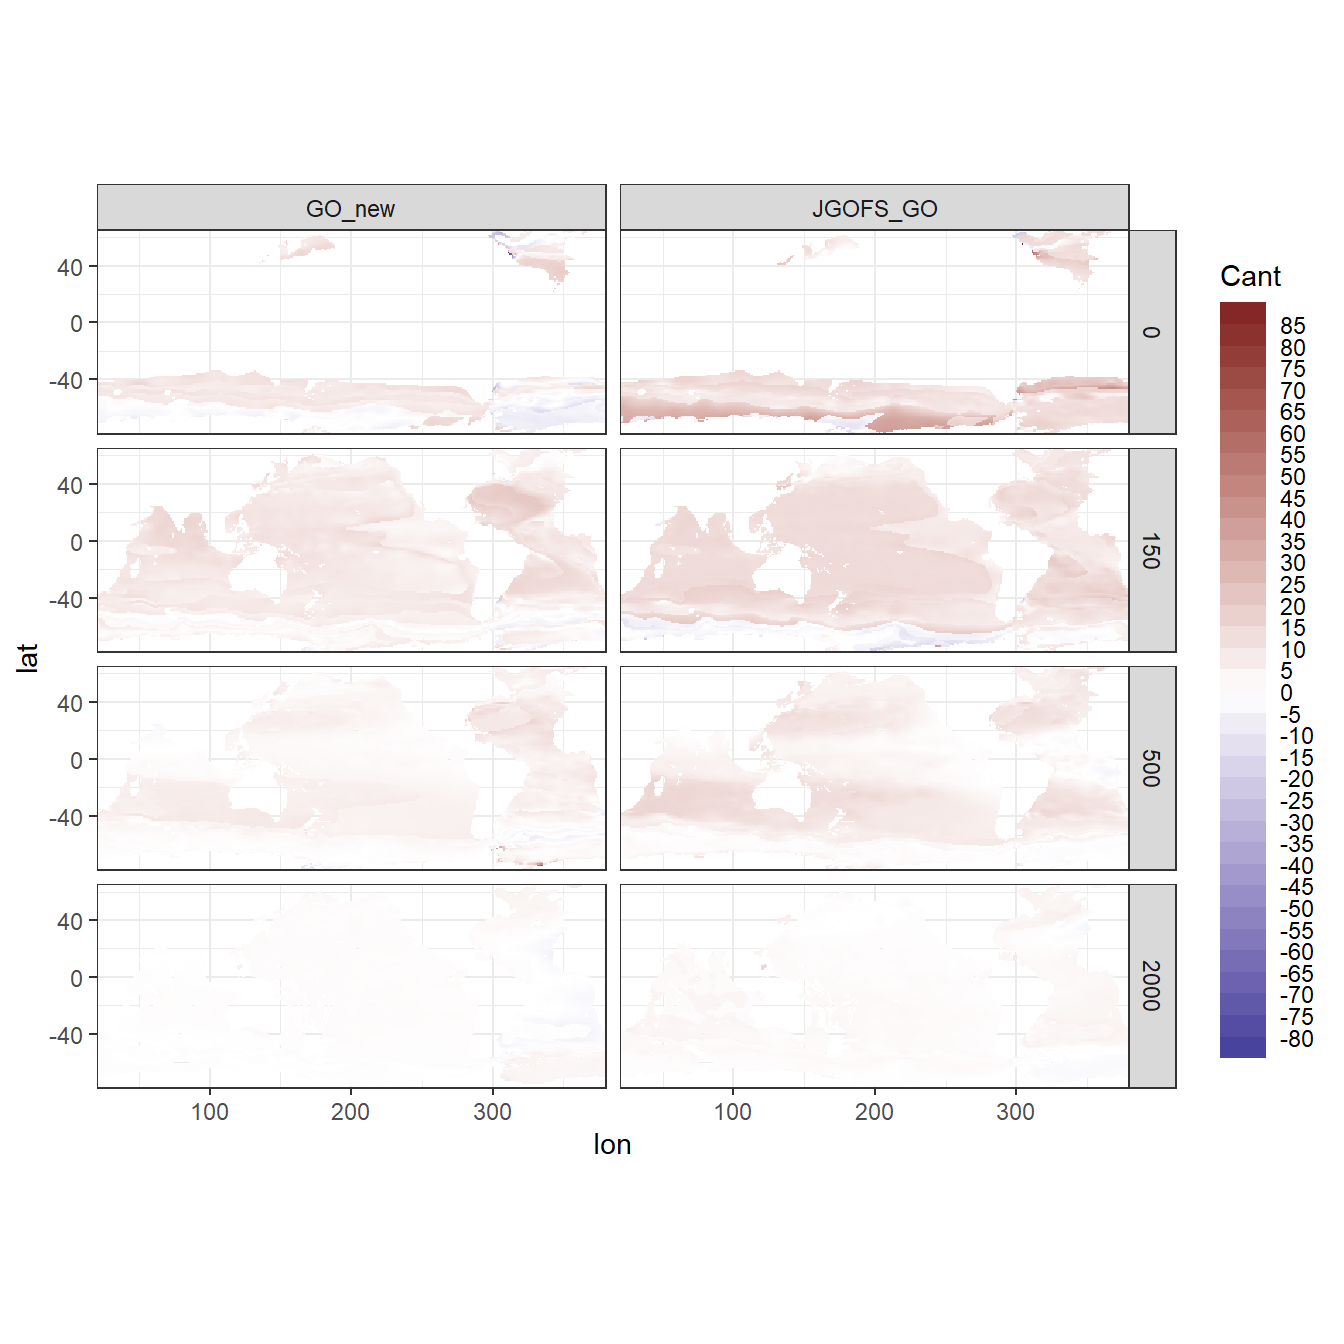
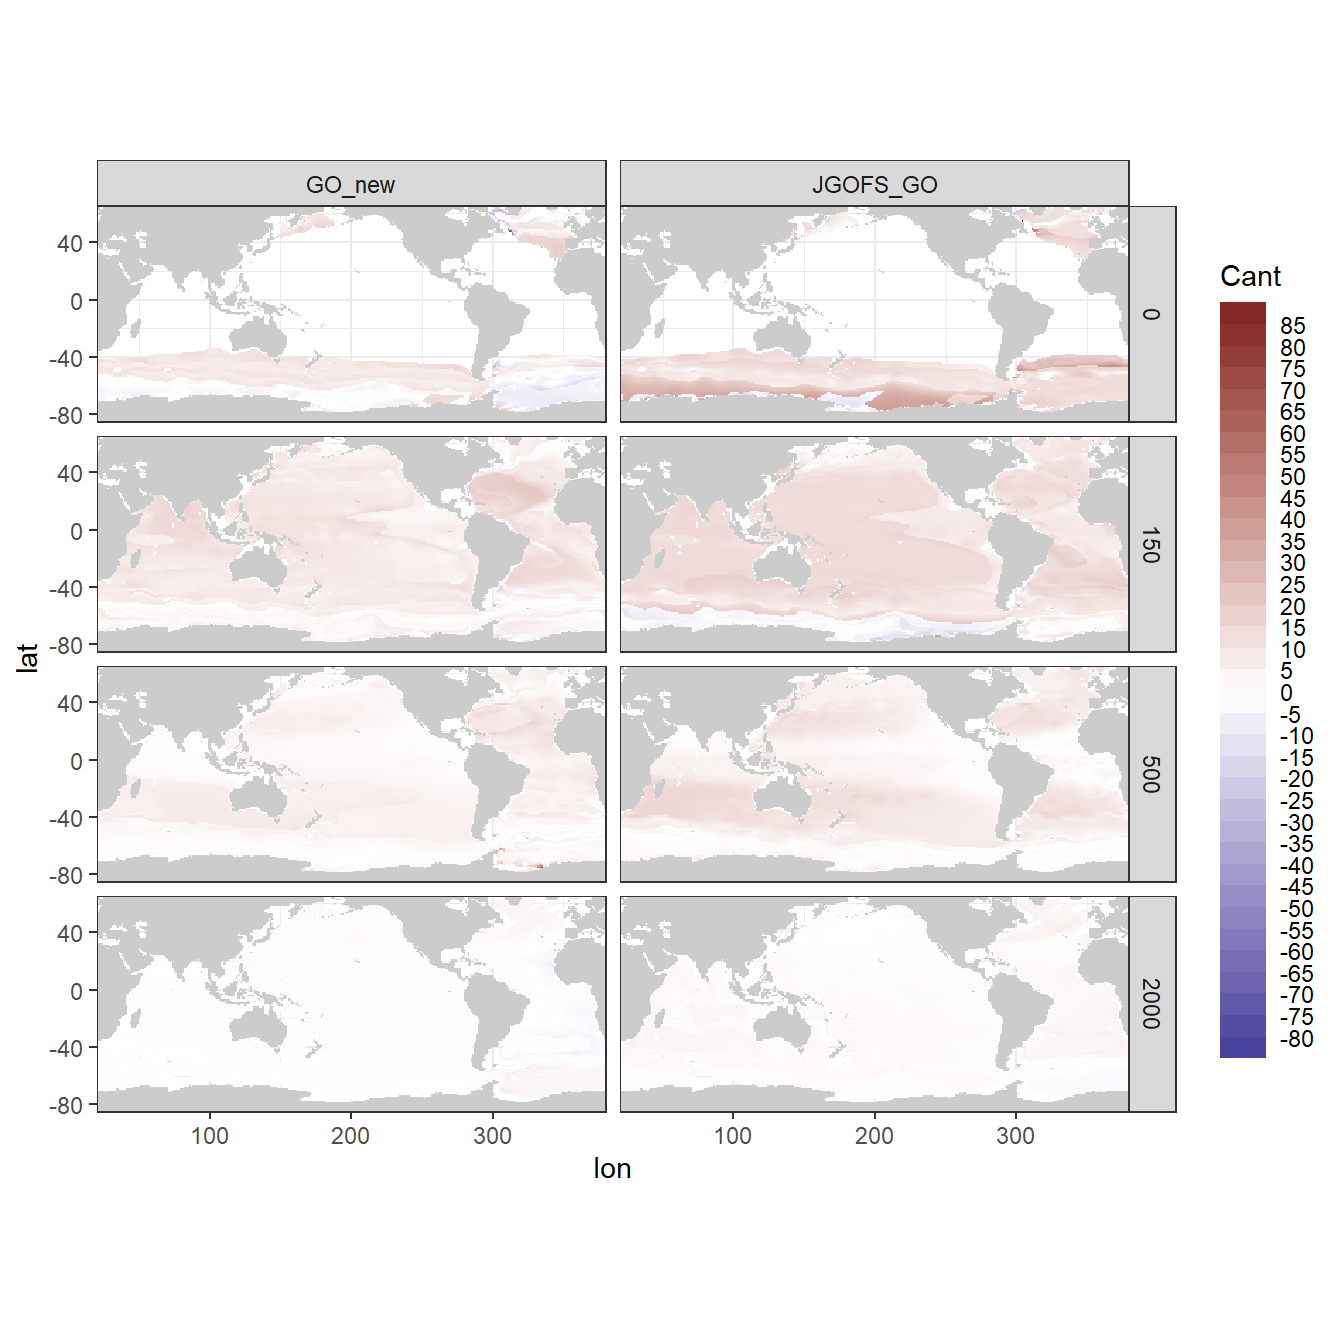
Build site.

Changed region(s): [[0.0312, 0.0938, 0.875, 0.875]]

diff --git a/docs/analysis_this_study.html b/docs/analysis_this_study.html
@@ -618,16 +618,16 @@ This reproducible <a href="http://rmarkdown.rstudio.com">R Markdown</a> analysis
 <div class="panel panel-default">
 <div class="panel-heading">
 <p class="panel-title">
-<a data-toggle="collapse" data-parent="#workflowr-checks" href="#strongRepositoryversionstrongahrefhttpsgithubcomjensdanielmuellerCanteMLRtree27c5ab16b0c70425b72215fcdb2028158a49dccbtargetblank27c5ab1a"> <span class="glyphicon glyphicon-ok text-success" aria-hidden="true"></span> <strong>Repository version:</strong> <a href="https://github.com/jens-daniel-mueller/Cant_eMLR/tree/27c5ab16b0c70425b72215fcdb2028158a49dccb" target="_blank">27c5ab1</a> </a>
+<a data-toggle="collapse" data-parent="#workflowr-checks" href="#strongRepositoryversionstrongahrefhttpsgithubcomjensdanielmuellerCanteMLRtreec7ae6ab1bcfd98242c164bccef3f4687a7758651targetblankc7ae6aba"> <span class="glyphicon glyphicon-ok text-success" aria-hidden="true"></span> <strong>Repository version:</strong> <a href="https://github.com/jens-daniel-mueller/Cant_eMLR/tree/c7ae6ab1bcfd98242c164bccef3f4687a7758651" target="_blank">c7ae6ab</a> </a>
 </p>
 </div>
[2 lines of base64/hex data omitted]
 <div class="panel-body">
 <p>
 Great! You are using Git for version control. Tracking code development and connecting the code version to the results is critical for reproducibility.
 </p>
 <p>
-The results in this page were generated with repository version <a href="https://github.com/jens-daniel-mueller/Cant_eMLR/tree/27c5ab16b0c70425b72215fcdb2028158a49dccb" target="_blank">27c5ab1</a>. See the <em>Past versions</em> tab to see a history of the changes made to the R Markdown and HTML files.
+The results in this page were generated with repository version <a href="https://github.com/jens-daniel-mueller/Cant_eMLR/tree/c7ae6ab1bcfd98242c164bccef3f4687a7758651" target="_blank">c7ae6ab</a>. See the <em>Past versions</em> tab to see a history of the changes made to the R Markdown and HTML files.
 </p>
 <p>
 Note that you need to be careful to ensure that all relevant files for the analysis have been committed to Git prior to generating the results (you can use <code>wflow_publish</code> or <code>wflow_git_commit</code>). workflowr only checks the R Markdown file, but you know if there are other scripts or data files that it depends on. Below is the status of the Git repository when the results were generated:
@@ -684,6 +684,40 @@ Message
 </tr>
 </thead>
 <tbody>
+<tr>
+<td>
+Rmd
+</td>
+<td>
+<a href="https://github.com/jens-daniel-mueller/Cant_eMLR/blob/c7ae6ab1bcfd98242c164bccef3f4687a7758651/analysis/analysis_this_study.Rmd" target="_blank">c7ae6ab</a>
+</td>
+<td>
+jens-daniel-mueller
+</td>
+<td>
+2020-09-10
+</td>
+<td>
+updated plots
+</td>
+</tr>
+<tr>
+<td>
+html
+</td>
+<td>
+<a href="https://rawcdn.githack.com/jens-daniel-mueller/Cant_eMLR/1124ca567343f8598b67e67869d567529c86e2a9/docs/analysis_this_study.html" target="_blank">1124ca5</a>
+</td>
+<td>
+jens-daniel-mueller
+</td>
+<td>
+2020-09-10
+</td>
+<td>
+Build site.
+</td>
+</tr>
 <tr>
 <td>
 Rmd
@@ -1449,6 +1483,7 @@ section_zonal_average_continous(Cant_predictor_average_zonal,
     
 }</code></pre>
 <p><img src="figure/analysis_this_study.Rmd/Cant_section_predictor_contribution-1.png" width="672" style="display: block; margin: auto;" /><img src="figure/analysis_this_study.Rmd/Cant_section_predictor_contribution-2.png" width="672" style="display: block; margin: auto;" /><img src="figure/analysis_this_study.Rmd/Cant_section_predictor_contribution-3.png" width="672" style="display: block; margin: auto;" /><img src="figure/analysis_this_study.Rmd/Cant_section_predictor_contribution-4.png" width="672" style="display: block; margin: auto;" /><img src="figure/analysis_this_study.Rmd/Cant_section_predictor_contribution-5.png" width="672" style="display: block; margin: auto;" /><img src="figure/analysis_this_study.Rmd/Cant_section_predictor_contribution-6.png" width="672" style="display: block; margin: auto;" /><img src="figure/analysis_this_study.Rmd/Cant_section_predictor_contribution-7.png" width="672" style="display: block; margin: auto;" /><img src="figure/analysis_this_study.Rmd/Cant_section_predictor_contribution-8.png" width="672" style="display: block; margin: auto;" /></p>
+<pre class="r"><code>rm(variable)</code></pre>
 </div>
 </div>
 <div id="sections-along-path" class="section level2">
@@ -1526,15 +1561,17 @@ for (i_eras in unique(Cant$eras)) {
 <h3><span class="header-section-number">3.4.1</span> Surfaces</h3>
 <p>Cant concentration for selected depth levels at which mapping was performed.</p>
 <pre class="r"><code>Cant_average %&gt;%
-  filter(depth %in% parameters$depth_levels) %&gt;% 
-  ggplot(aes(lon, lat, fill = Cant_mean)) + 
+  filter(depth %in% parameters$depth_levels) %&gt;%
+  ggplot(aes(lon, lat, fill = Cant_mean)) +
+  geom_raster(data = landmask,
+              aes(lon, lat), fill = &quot;grey80&quot;) +
   geom_raster() +
   scale_fill_divergent(guide = &quot;colorstrip&quot;,
                        breaks = MakeBreaks(5),
                        name = &quot;Cant&quot;) +
   guides(fill = guide_colorsteps(barheight = unit(10, &quot;cm&quot;))) +
   coord_quickmap(expand = 0) +
-  facet_grid(depth~eras)</code></pre>
+  facet_grid(depth ~ eras)</code></pre>
 <p><img src="figure/analysis_this_study.Rmd/Cant_depth_layer_maps-1.png" width="672" style="display: block; margin: auto;" /></p>
 </div>
 <div id="inventories" class="section level3">
